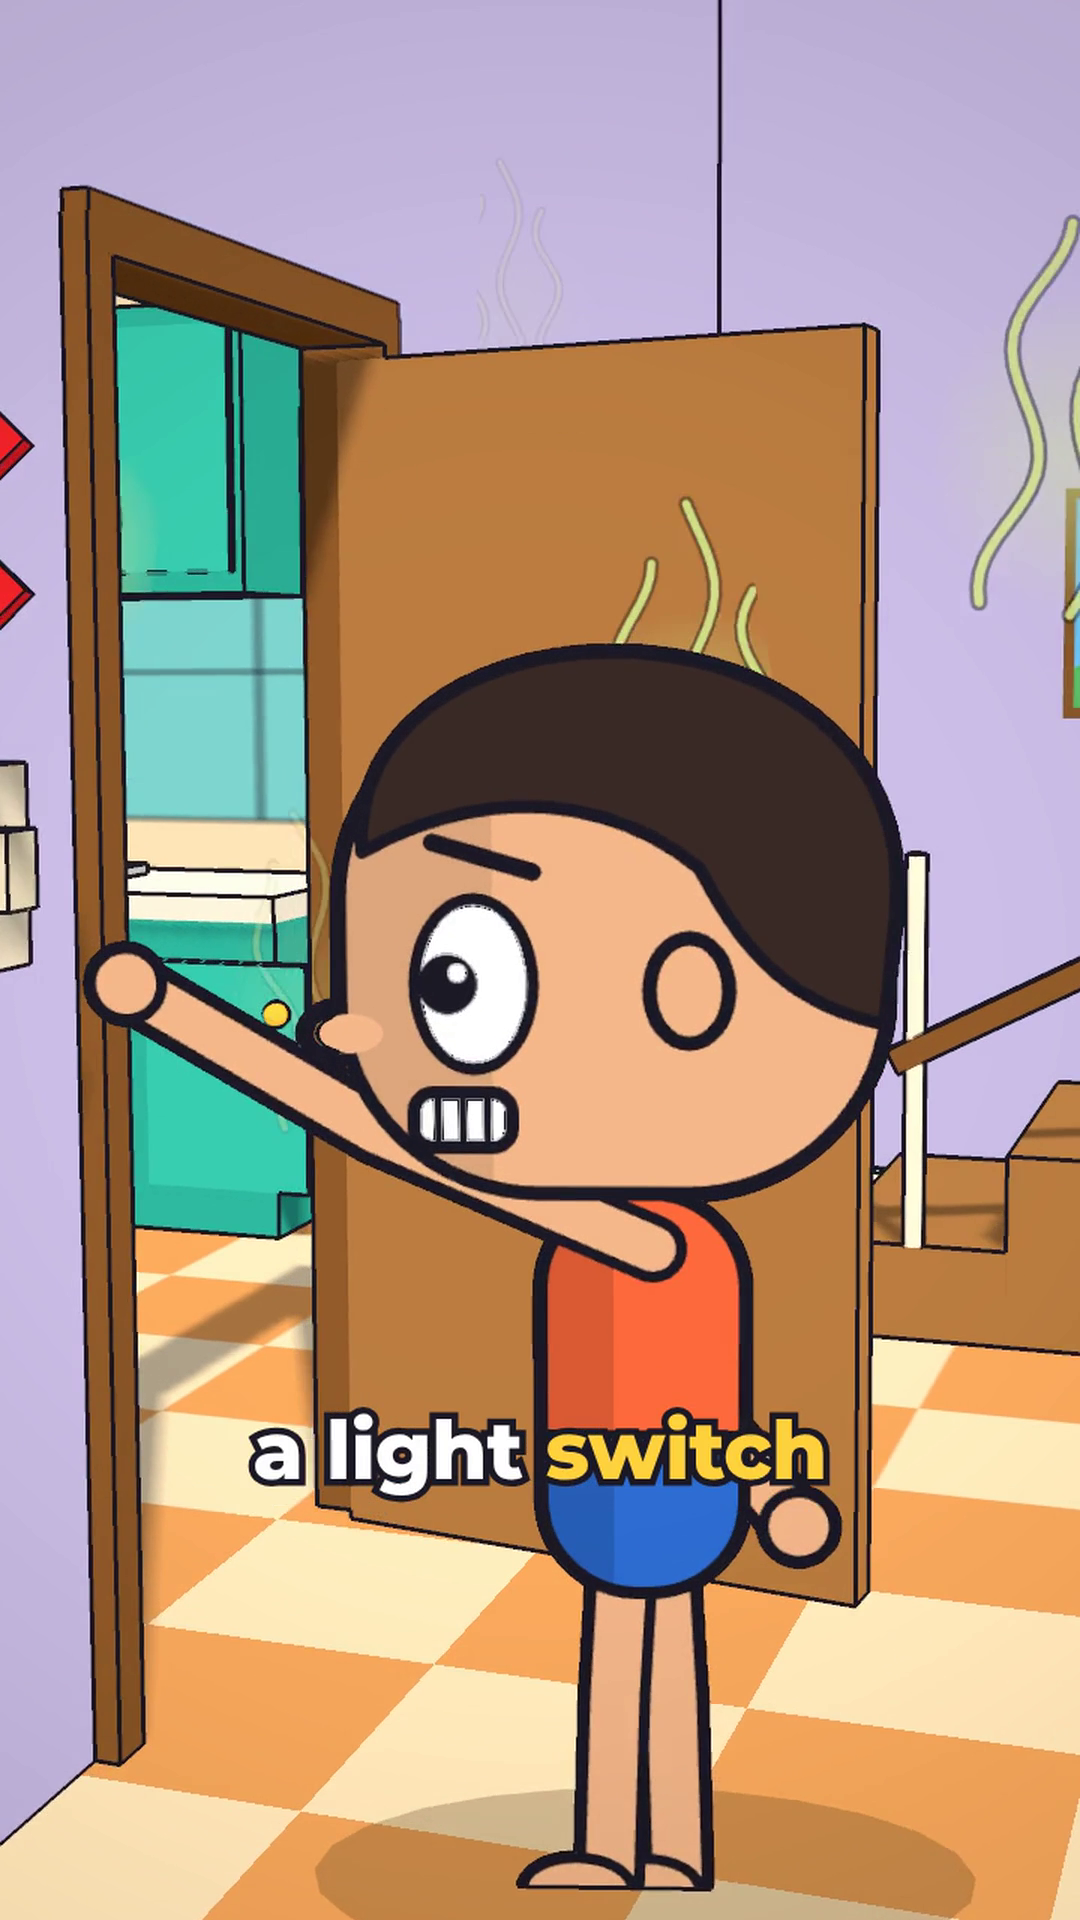
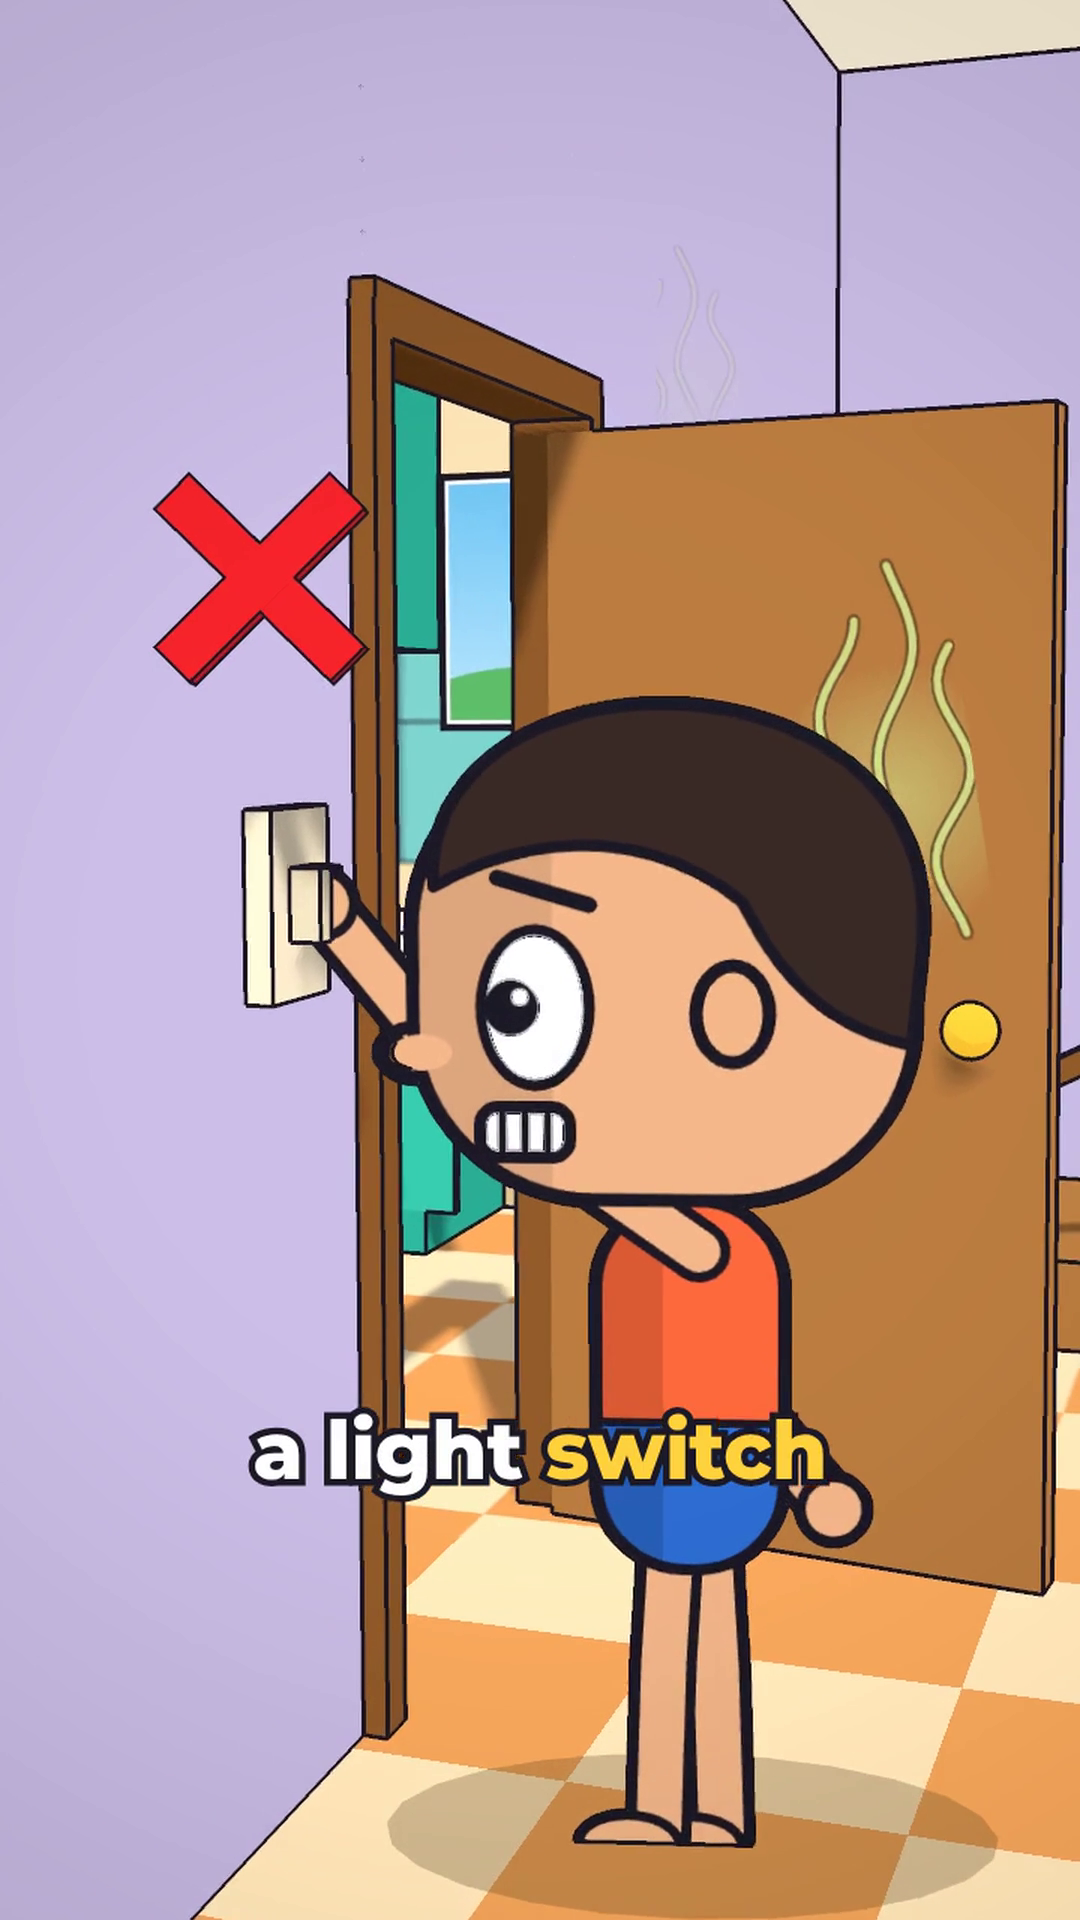
howto/gasleak: the switch shots framed with the switch in view and Sam's hand on it; cover frame
Claude-Session: https://claude.ai/code/session_016c6ARmPUr2BrGtPLGExamv

diff --git a/reels/howto/gasleak/src/shots.js b/reels/howto/gasleak/src/shots.js
@@ -21,8 +21,8 @@ shot(0, 1.95, (lt, t, u, w) => { const k = io(u), x = lerp(6.6, 5.2, k), pinch =
   w.smell(t, DOOR_IN, .7, 1.4, 1.5); return { focus: 3.6, blur: .5 }; });
 // 2  "do not flip a light switch." : a hand on its way to the switch, and the cross
 shot(1.95, 3.7, (lt, t, u, w) => { const r = anti(pr(lt, .05, .55));
-  w.cam([lerp(5.7, 5.2, io(u)), lerp(1.6, 1.5, u), lerp(5.2, 4.7, io(u))], [4.3, 1.25, 1.8], 44);
-  w.act('sam', 4.5, 2.05, { view: 'side', face: -1, reach: [SWITCH[0] + .02, 1.24, lerp(2.55, SWITCH[2], clamp(r))], reachWith: 'L', armR: [.4, .3], mouth: 'grit', brow: .5, eyes: [-.7, 0] });
+  w.cam([lerp(5.4, 4.9, io(u)), lerp(1.6, 1.5, u), lerp(5.4, 4.9, io(u))], [3.95, 1.3, 1.9], 46);
+  w.act('sam', 4.22, 2.12, { view: 'side', face: -1, reach: [SWITCH[0] + .02, 1.3, lerp(2.55, SWITCH[2], clamp(r))], reachWith: 'L', armR: [.4, .3], mouth: 'grit', brow: .5, eyes: [-.7, 0] });
   w.smell(t, DOOR_IN, .8, 1.6, 1.4); w.cross([SWITCH[0] + .06, 1.72, SWITCH[2] + .25], pr(lt, .6, .8), .2); return { focus: 3.0, blur: .5 }; });
 // 3  "That smell is added to gas" : at the stove, where it comes from
 shot(3.7, 5.32, (lt, t, u, w) => {
@@ -40,8 +40,8 @@ shot(7.1, 8.6, (lt, t, u, w) => { const sp = pr(lt, .12, .5);
   return { focus: .9, blur: .7, flash: sp > 0 && sp < 1 ? .25 * Math.sin(Math.PI * sp) : 0 }; });
 // 6  "So do not turn anything on or off." : the hand stops short and comes back
 shot(8.6, 11.05, (lt, t, u, w) => { const r = out(pr(lt, .1, .6)), back = io(pr(lt, 1.15, 1.6));
-  w.cam([lerp(5.6, 6.0, io(u)), lerp(1.6, 1.7, u), lerp(4.6, 5.2, io(u))], [4.4, 1.25, 1.6], 44);
-  w.act('sam', 4.5, 2.05, back < 1 ? { view: 'side', face: -1, reach: [SWITCH[0] + .25 + .35 * back, 1.24, lerp(2.55, SWITCH[2] + .1, r * (1 - back))], reachWith: 'L', armR: [.4, .3], mouth: 'grit', brow: .5, eyes: [-.7, 0] } : { view: 'q', face: -1, armL: [-1.2, -1.4], armR: [.4, .3], mouth: 'o', brow: .6, eyes: [-.6, 0] });
+  w.cam([lerp(5.3, 5.7, io(u)), lerp(1.6, 1.7, u), lerp(5.0, 5.6, io(u))], [3.95, 1.3, 1.9], 46);
+  w.act('sam', 4.22, 2.12, back < 1 ? { view: 'side', face: -1, reach: [SWITCH[0] + .02, lerp(.95, 1.16, r) - .25 * back, SWITCH[2] + .06], reachWith: 'L', armR: [.4, .3], mouth: 'grit', brow: .5, eyes: [-.7, 0] } : { view: 'q', face: -1, armL: [-1.2, -1.4], armR: [.4, .3], mouth: 'o', brow: .6, eyes: [-.6, 0] });
   w.smell(t, DOOR_IN, .8, 1.6, 1.4); return { focus: 3.0, blur: .5 }; });
 // 7  "No lights," : the lamp in the hall
 shot(11.05, 11.95, (lt, t, u, w) => { const r = out(pr(lt, 0, .3));
